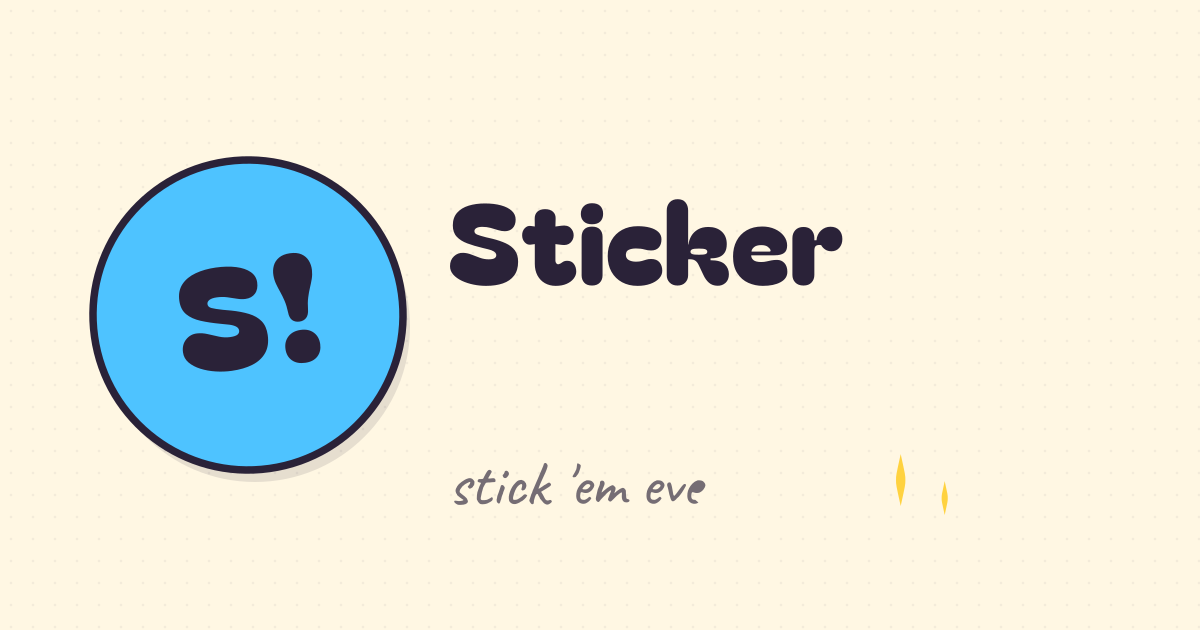
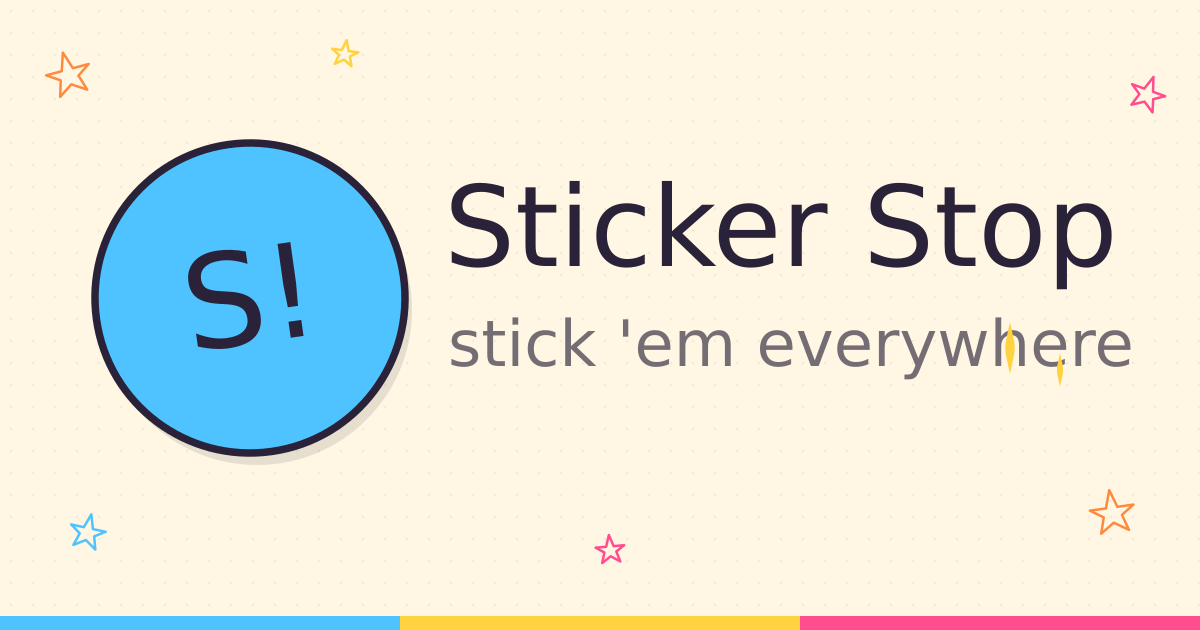
Update OG image: embedded fonts, stars, tri-color bar
Switched from path-based text to SVG @font-face with base64-embedded
TTFs so the text renders identically to the browser. Added decorative
outline stars around the edges, 4-pointed sparkle stars next to the
tagline, and the blue/yellow/pink colour bar at the bottom.

https://claude.ai/code/session_01Y8iosHZQgAJEX6SNKrp2Bk

diff --git a/scripts/gen-og.js b/scripts/gen-og.js
@@ -1,5 +1,5 @@
 /**
- * Generates static/og.png — the Open Graph share image.
+ * Generates static/og.png — the Open Graph share image (1200×630).
  * Run: node scripts/gen-og.js
  * Requires BagelFatOne.ttf and Caveat-Regular.ttf in the project root.
  */
@@ -7,99 +7,119 @@
 import fs from 'fs';
 import path from 'path';
 import { fileURLToPath } from 'url';
-import opentype from 'opentype.js';
 import sharp from 'sharp';
 
 const __dirname = path.dirname(fileURLToPath(import.meta.url));
 const root = path.resolve(__dirname, '..');
 
-const bagelFont  = opentype.parse(fs.readFileSync(path.join(root, 'BagelFatOne.ttf')).buffer);
-const caveatFont = opentype.parse(fs.readFileSync(path.join(root, 'Caveat-Regular.ttf')).buffer);
+// Embed font bytes as base64 data URIs so librsvg can render them
+const bagelB64  = fs.readFileSync(path.join(root, 'BagelFatOne.ttf')).toString('base64');
+const caveatB64 = fs.readFileSync(path.join(root, 'Caveat-Regular.ttf')).toString('base64');
 
-function pathSvg(font, text, x, y, size, fill) {
-  const p = font.getPath(text, x, y, size);
-  p.fill = fill;
-  return p.toSVG(2);
-}
-
-// Place text so its visual bounding-box centre sits at (cx, cy)
-function centredPath(font, text, cx, cy, size, fill) {
-  const bb = font.getPath(text, 0, 0, size).getBoundingBox();
-  return pathSvg(font, text, cx - (bb.x1 + bb.x2) / 2, cy - (bb.y1 + bb.y2) / 2, size, fill);
-}
-
-// ── Colours ──────────────────────────────────────────────────────────────────
-const paper     = '#fff7e3';
-const ink       = '#2a2238';
-const blue      = '#4ec3ff';
-const yellow    = '#ffd23f';
-// ink at ~65% opacity on paper background
-const inkMuted  = '#756d74';
+// ── Design tokens ─────────────────────────────────────────────────────────────
+const paper    = '#fff7e3';
+const ink      = '#2a2238';
+const blue     = '#4ec3ff';
+const yellow   = '#ffd23f';
+const pink     = '#ff4d8d';
+const inkMuted = '#756d74'; // ink at ~65% opacity on paper
 
 const W = 1200, H = 630;
+const BAR = 14; // bottom colour-bar height
 
-// ── Layout ────────────────────────────────────────────────────────────────────
-const badgeCx = 248, badgeCy = H / 2, badgeR = 155;
-const textX   = 448;
+// ── Layout (matches site navbar proportions, scaled to OG size) ───────────────
+const badgeCx = 250, badgeCy = (H - BAR) / 2 - 10, badgeR = 155;
 
-const TITLE_SIZE   = 112;
-const TAGLINE_SIZE = 62;
-
-const titleBB   = bagelFont.getPath('Sticker Stop', 0, 0, TITLE_SIZE).getBoundingBox();
-const taglineBB = caveatFont.getPath("stick 'em everywhere", 0, 0, TAGLINE_SIZE).getBoundingBox();
-
-// Vertically centre the two-line text block against the badge centre
-const lineGap   = 68;
-const blockH    = (titleBB.y2 - titleBB.y1) + lineGap + (taglineBB.y2 - taglineBB.y1);
-const titleY    = badgeCy - blockH / 2 - titleBB.y1;
-const taglineY  = titleY + (titleBB.y2 - titleBB.y1) + lineGap - taglineBB.y1;
-
-// X position of tagline right edge (for placing sparkles)
-const taglineW  = taglineBB.x2 - taglineBB.x1;
-const sparkleX  = textX + taglineW + 24;
-const sparkleY  = taglineY + (taglineBB.y1 + taglineBB.y2) / 2; // vertically centred on tagline
-
-// ── 4-pointed sparkle star ────────────────────────────────────────────────────
-// r = outer radius, ri = inner waist (small = spiky)
-function sparkle(cx, cy, r, color) {
-  const ri = r * 0.18;
-  const d = `M0,${-r} C${ri},${-ri} ${ri},${-ri} ${ri},0 C${ri},${ri} ${ri},${ri} 0,${r} C${-ri},${ri} ${-ri},${ri} ${-ri},0 C${-ri},${-ri} ${-ri},${-ri} 0,${-r}Z`;
-  return `<path d="${d}" fill="${color}" transform="translate(${cx},${cy})"/>`;
-}
-
-// ── Polka dots (very subtle) ──────────────────────────────────────────────────
+// ── Polka dots ────────────────────────────────────────────────────────────────
 function dots() {
   let d = '';
   for (let x = 11; x < W; x += 22)
-    for (let y = 11; y < H; y += 22)
+    for (let y = 11; y < H - BAR; y += 22)
       d += `<circle cx="${x}" cy="${y}" r="1.3" fill="${ink}" opacity="0.055"/>`;
   return d;
 }
 
+// ── 4-pointed sparkle star ────────────────────────────────────────────────────
+function sparkle(cx, cy, r, color, rot = 0) {
+  const ri = r * 0.18;
+  const d = `M0,${-r} C${ri},${-ri} ${ri},${-ri} ${ri},0 C${ri},${ri} ${ri},${ri} 0,${r} C${-ri},${ri} ${-ri},${ri} ${-ri},0 C${-ri},${-ri} ${-ri},${-ri} 0,${-r}Z`;
+  return `<path d="${d}" fill="${color}" transform="translate(${cx},${cy}) rotate(${rot})"/>`;
+}
+
+// ── Outline star (edge decoration) ───────────────────────────────────────────
+const STAR_PTS = 'M0-10 2.9-1.2 11-1.2 4.6 3.1 7 11 0 6.4-7 11-4.6 3.1-11-1.2-2.9-1.2z';
+function outlineStar(cx, cy, sz, color, rot = 0) {
+  const s = sz / 20;
+  return `<g transform="translate(${cx},${cy}) rotate(${rot}) scale(${s})">
+    <path d="${STAR_PTS}" fill="none" stroke="${color}" stroke-width="${2.5 / s}" stroke-linejoin="round"/>
+  </g>`;
+}
+
 // ── SVG ───────────────────────────────────────────────────────────────────────
 const svg = `<svg xmlns="http://www.w3.org/2000/svg" width="${W}" height="${H}" viewBox="0 0 ${W} ${H}">
+  <defs>
+    <style>
+      @font-face {
+        font-family: 'Bagel Fat One';
+        src: url('data:font/truetype;base64,${bagelB64}') format('truetype');
+      }
+      @font-face {
+        font-family: 'Caveat';
+        src: url('data:font/truetype;base64,${caveatB64}') format('truetype');
+      }
+    </style>
+  </defs>
 
+  <!-- Background -->
   <rect width="${W}" height="${H}" fill="${paper}"/>
   ${dots()}
+
+  <!-- Edge decoration stars -->
+  ${outlineStar(68,  72,  40, '#ff8a3d', -15)}
+  ${outlineStar(1148, 92,  32, pink,       20)}
+  ${outlineStar(1112, 510, 40, '#ff8a3d',  -8)}
+  ${outlineStar(88,  530, 32, blue,        12)}
+  ${outlineStar(345,  52, 24, yellow,       8)}
+  ${outlineStar(610, 548, 26, pink,        -5)}
 
   <!-- Badge drop shadow -->
   <circle cx="${badgeCx + 7}" cy="${badgeCy + 12}" r="${badgeR}" fill="${ink}" opacity="0.12"/>
 
-  <!-- Badge -->
+  <!-- Badge (rotated -8°) -->
   <g transform="rotate(-8 ${badgeCx} ${badgeCy})">
     <circle cx="${badgeCx}" cy="${badgeCy}" r="${badgeR}" fill="${blue}" stroke="${ink}" stroke-width="7.5"/>
-    ${centredPath(bagelFont, 'S!', badgeCx, badgeCy, 142, ink)}
+    <text
+      x="${badgeCx}" y="${badgeCy}"
+      text-anchor="middle" dominant-baseline="central"
+      font-family="'Bagel Fat One', sans-serif"
+      font-size="130"
+      fill="${ink}">S!</text>
   </g>
 
   <!-- Wordmark -->
-  ${pathSvg(bagelFont, 'Sticker Stop', textX, titleY, TITLE_SIZE, ink)}
+  <text
+    x="444" y="${badgeCy - 32}"
+    dominant-baseline="auto"
+    font-family="'Bagel Fat One', sans-serif"
+    font-size="112"
+    fill="${ink}">Sticker Stop</text>
 
   <!-- Tagline -->
-  ${pathSvg(caveatFont, "stick 'em everywhere", textX, taglineY, TAGLINE_SIZE, inkMuted)}
+  <text
+    x="448" y="${badgeCy + 68}"
+    dominant-baseline="auto"
+    font-family="'Caveat', cursive"
+    font-size="64"
+    fill="${inkMuted}">stick 'em everywhere</text>
 
-  <!-- Sparkle stars -->
-  ${sparkle(sparkleX + 10,  sparkleY - 10, 26, yellow)}
-  ${sparkle(sparkleX + 54,  sparkleY + 8,  17, yellow)}
+  <!-- Sparkle stars next to tagline -->
+  ${sparkle(1010, badgeCy + 50, 26, yellow)}
+  ${sparkle(1060, badgeCy + 72, 17, yellow)}
+
+  <!-- Bottom colour bar -->
+  <rect y="${H - BAR}" width="${W / 3}"   height="${BAR}" fill="${blue}"/>
+  <rect x="${W / 3}"   y="${H - BAR}" width="${W / 3}" height="${BAR}" fill="${yellow}"/>
+  <rect x="${2*W/3}"   y="${H - BAR}" width="${W / 3}" height="${BAR}" fill="${pink}"/>
 </svg>`;
 
 const out = path.join(root, 'static', 'og.png');
